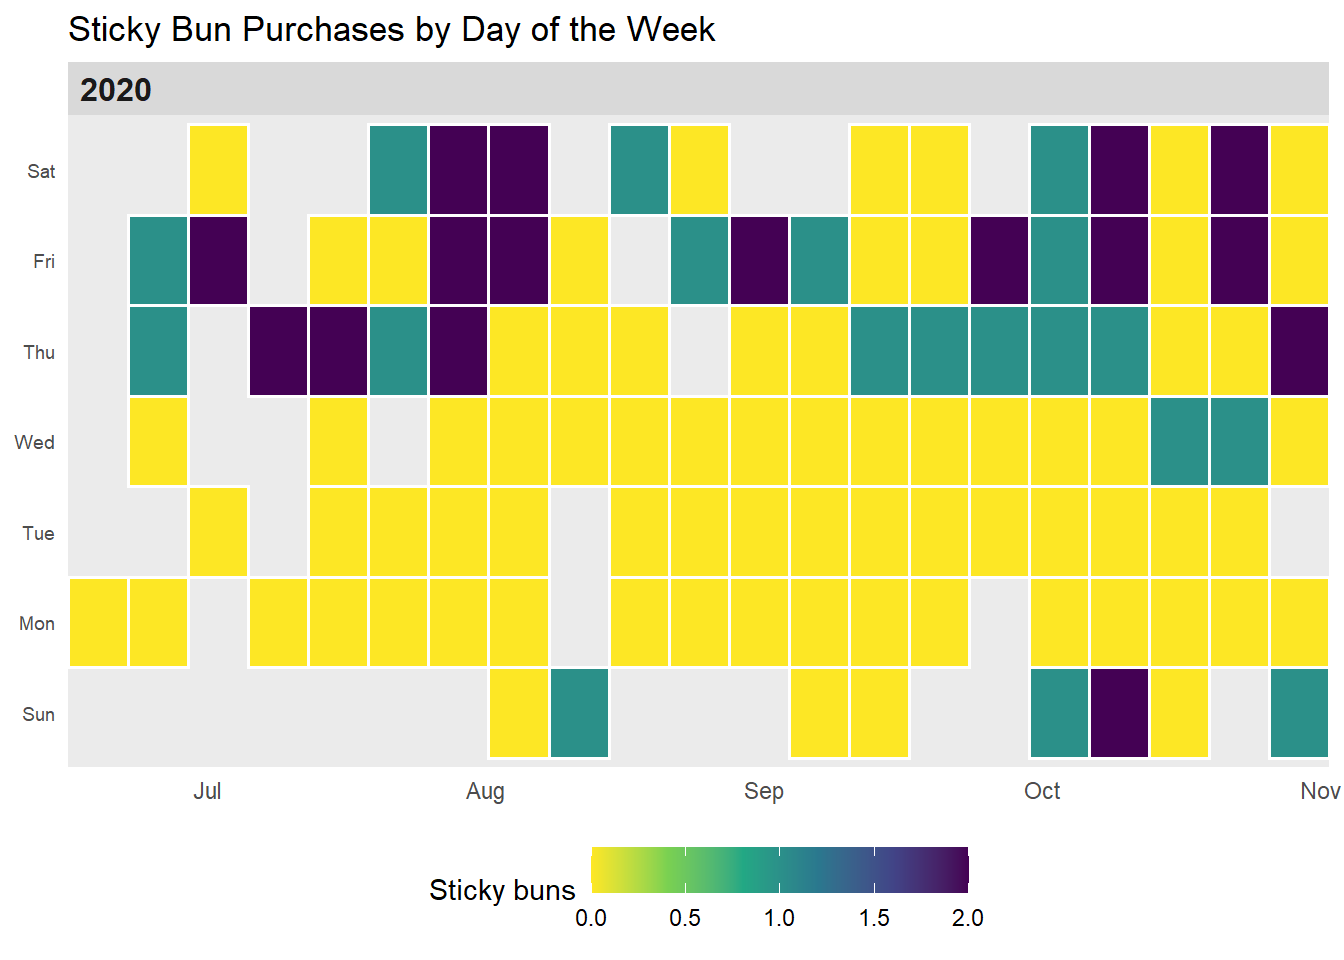
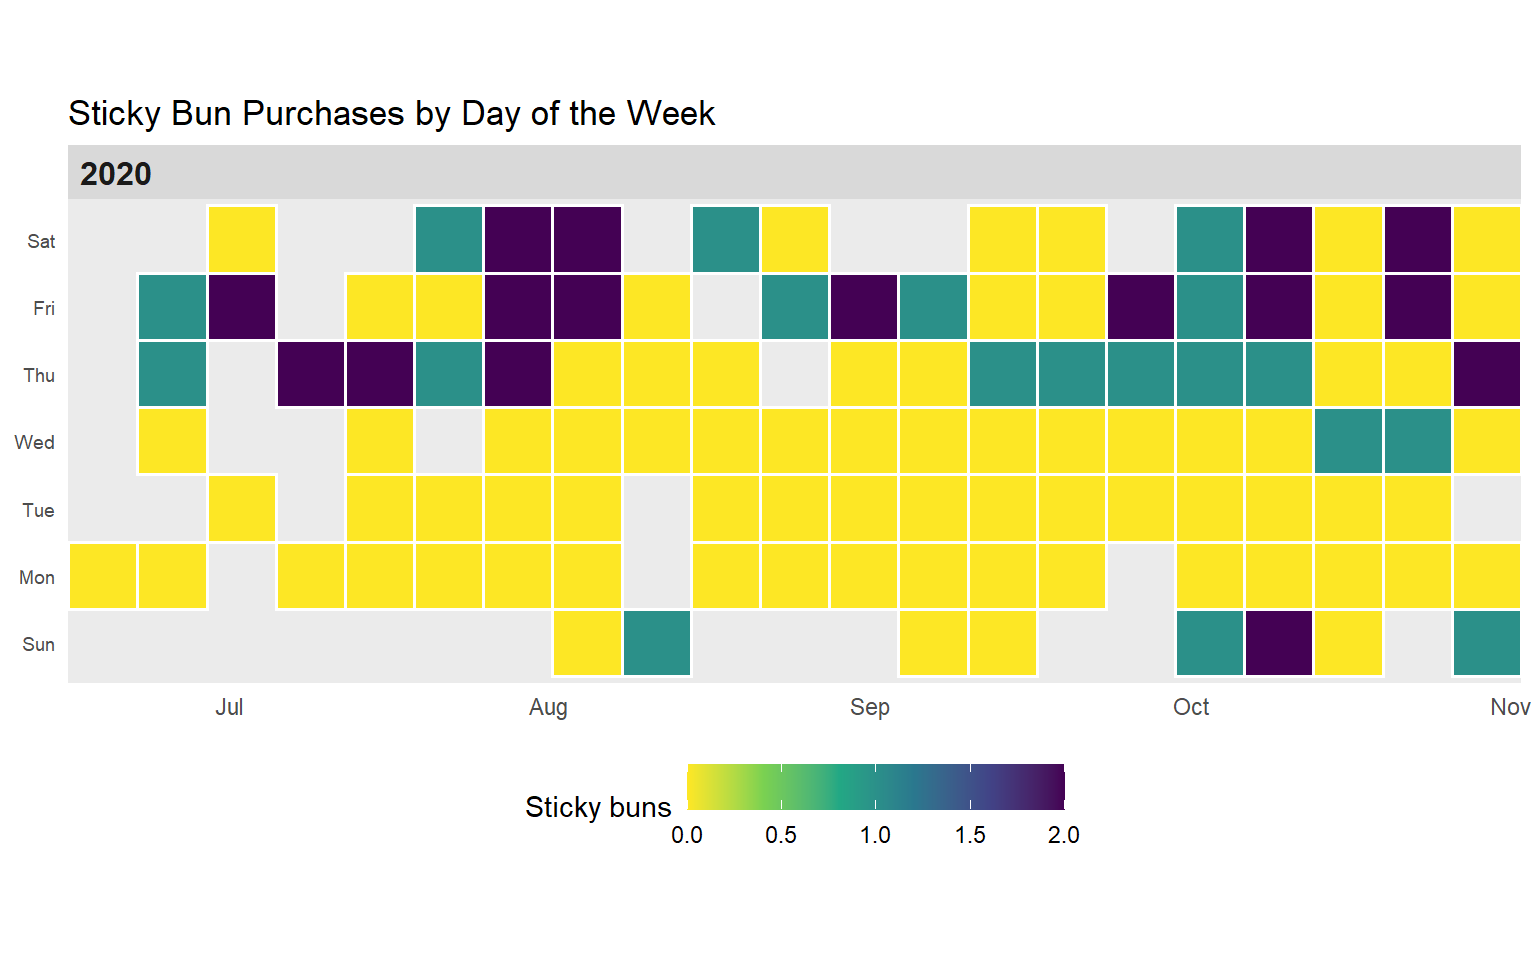
Change aspect ratio of plot output

diff --git a/docs/posts/2023-02-26-A sticky bun, but not every day/index.html b/docs/posts/2023-02-26-A sticky bun, but not every day/index.html
@@ -229,7 +229,7 @@ code span.wa { color: #60a0b0; font-weight: bold; font-style: italic; } /* Warni
 <p>I copied the <code>gh_waffle</code> function from <a href="https://mvuorre.github.io/posts/2016-03-24-github-waffle-plot/">Matti Vuorre’s blog post</a> with some minor modifications.</p>
 <div class="cell">
 <div class="cell-output-display">
-<p><img src="index_files/figure-html/unnamed-chunk-4-1.png" class="img-fluid" width="672"></p>
+<p><img src="index_files/figure-html/unnamed-chunk-4-1.png" class="img-fluid" width="768"></p>
 </div>
 </div>
 
@@ -511,7 +511,7 @@ window.document.addEventListener("DOMContentLoaded", function (event) {
 <span id="cb1-89"><a href="#cb1-89" aria-hidden="true" tabindex="-1"></a>      <span class="at">axis.text.y =</span> <span class="fu">element_text</span>(<span class="at">size =</span> <span class="dv">7</span>),</span>
 <span id="cb1-90"><a href="#cb1-90" aria-hidden="true" tabindex="-1"></a>      <span class="at">panel.grid =</span> <span class="fu">element_blank</span>(),</span>
 <span id="cb1-91"><a href="#cb1-91" aria-hidden="true" tabindex="-1"></a>      <span class="at">legend.position =</span> <span class="st">"bottom"</span>,</span>
-<span id="cb1-92"><a href="#cb1-92" aria-hidden="true" tabindex="-1"></a>    <span class="co">#  aspect.ratio = 1/7,</span></span>
+<span id="cb1-92"><a href="#cb1-92" aria-hidden="true" tabindex="-1"></a>     <span class="at">aspect.ratio =</span> <span class="dv">1</span><span class="sc">/</span><span class="dv">3</span>,</span>
 <span id="cb1-93"><a href="#cb1-93" aria-hidden="true" tabindex="-1"></a>      <span class="at">legend.key.width =</span> <span class="fu">unit</span>(<span class="dv">1</span>, <span class="st">"cm"</span>),</span>
 <span id="cb1-94"><a href="#cb1-94" aria-hidden="true" tabindex="-1"></a>      <span class="at">strip.text =</span> <span class="fu">element_text</span>(<span class="at">hjust =</span> <span class="fl">0.00</span>, <span class="at">face =</span> <span class="st">"bold"</span>, <span class="at">size =</span> <span class="dv">12</span>)</span>
 <span id="cb1-95"><a href="#cb1-95" aria-hidden="true" tabindex="-1"></a>    )</span>
@@ -531,14 +531,16 @@ window.document.addEventListener("DOMContentLoaded", function (event) {
 <span id="cb1-109"><a href="#cb1-109" aria-hidden="true" tabindex="-1"></a>I copied the <span class="in">`gh_waffle`</span> function from <span class="co">[</span><span class="ot">Matti Vuorre's blog post</span><span class="co">](https://mvuorre.github.io/posts/2016-03-24-github-waffle-plot/)</span> with some minor modifications.</span>
 <span id="cb1-110"><a href="#cb1-110" aria-hidden="true" tabindex="-1"></a></span>
 <span id="cb1-113"><a href="#cb1-113" aria-hidden="true" tabindex="-1"></a><span class="in">```{r}</span></span>
-<span id="cb1-114"><a href="#cb1-114" aria-hidden="true" tabindex="-1"></a>plot_sticky_bun <span class="ot">&lt;-</span> <span class="fu">gh_waffle</span>(sticky_bun) <span class="sc">+</span> </span>
-<span id="cb1-115"><a href="#cb1-115" aria-hidden="true" tabindex="-1"></a>  <span class="fu">labs</span>(<span class="at">title =</span> <span class="st">"Sticky Bun Purchases by Day of the Week"</span>)</span>
-<span id="cb1-116"><a href="#cb1-116" aria-hidden="true" tabindex="-1"></a></span>
-<span id="cb1-117"><a href="#cb1-117" aria-hidden="true" tabindex="-1"></a>plot_sticky_bun</span>
-<span id="cb1-118"><a href="#cb1-118" aria-hidden="true" tabindex="-1"></a><span class="in">```</span></span>
-<span id="cb1-119"><a href="#cb1-119" aria-hidden="true" tabindex="-1"></a></span>
-<span id="cb1-120"><a href="#cb1-120" aria-hidden="true" tabindex="-1"></a></span>
+<span id="cb1-114"><a href="#cb1-114" aria-hidden="true" tabindex="-1"></a><span class="co">#| fig-width: 8</span></span>
+<span id="cb1-115"><a href="#cb1-115" aria-hidden="true" tabindex="-1"></a><span class="co">#| fig-height: 5</span></span>
+<span id="cb1-116"><a href="#cb1-116" aria-hidden="true" tabindex="-1"></a>plot_sticky_bun <span class="ot">&lt;-</span> <span class="fu">gh_waffle</span>(sticky_bun) <span class="sc">+</span> </span>
+<span id="cb1-117"><a href="#cb1-117" aria-hidden="true" tabindex="-1"></a>  <span class="fu">labs</span>(<span class="at">title =</span> <span class="st">"Sticky Bun Purchases by Day of the Week"</span>)</span>
+<span id="cb1-118"><a href="#cb1-118" aria-hidden="true" tabindex="-1"></a></span>
+<span id="cb1-119"><a href="#cb1-119" aria-hidden="true" tabindex="-1"></a>plot_sticky_bun</span>
+<span id="cb1-120"><a href="#cb1-120" aria-hidden="true" tabindex="-1"></a><span class="in">```</span></span>
 <span id="cb1-121"><a href="#cb1-121" aria-hidden="true" tabindex="-1"></a></span>
+<span id="cb1-122"><a href="#cb1-122" aria-hidden="true" tabindex="-1"></a></span>
+<span id="cb1-123"><a href="#cb1-123" aria-hidden="true" tabindex="-1"></a></span>
 </code><button title="Copy to Clipboard" class="code-copy-button"><i class="bi"></i></button></pre></div>
 </div></div></div></div></div>
 </div> <!-- /content -->

diff --git a/docs/posts.html b/docs/posts.html
@@ -162,7 +162,7 @@ ul.task-list li input[type="checkbox"] {
 
 <div class="quarto-listing quarto-listing-container-grid" id="listing-listing">
 <div class="list grid quarto-listing-cols-3">
-<div class="g-col-1" data-index="0" data-categories="R,Quarto,Family Life" data-listing-date-sort="1677387600000" data-listing-file-modified-sort="1678228563444" data-listing-reading-time-sort="2.575">
+<div class="g-col-1" data-index="0" data-categories="R,Quarto,Family Life" data-listing-date-sort="1677387600000" data-listing-file-modified-sort="1678235644176" data-listing-reading-time-sort="2.59">
 <a href="./posts/2023-02-26-A sticky bun, but not every day/index.html" class="quarto-grid-link">
 <div class="quarto-grid-item card h-100 card-left">
 <div class="card-body post-contents">
